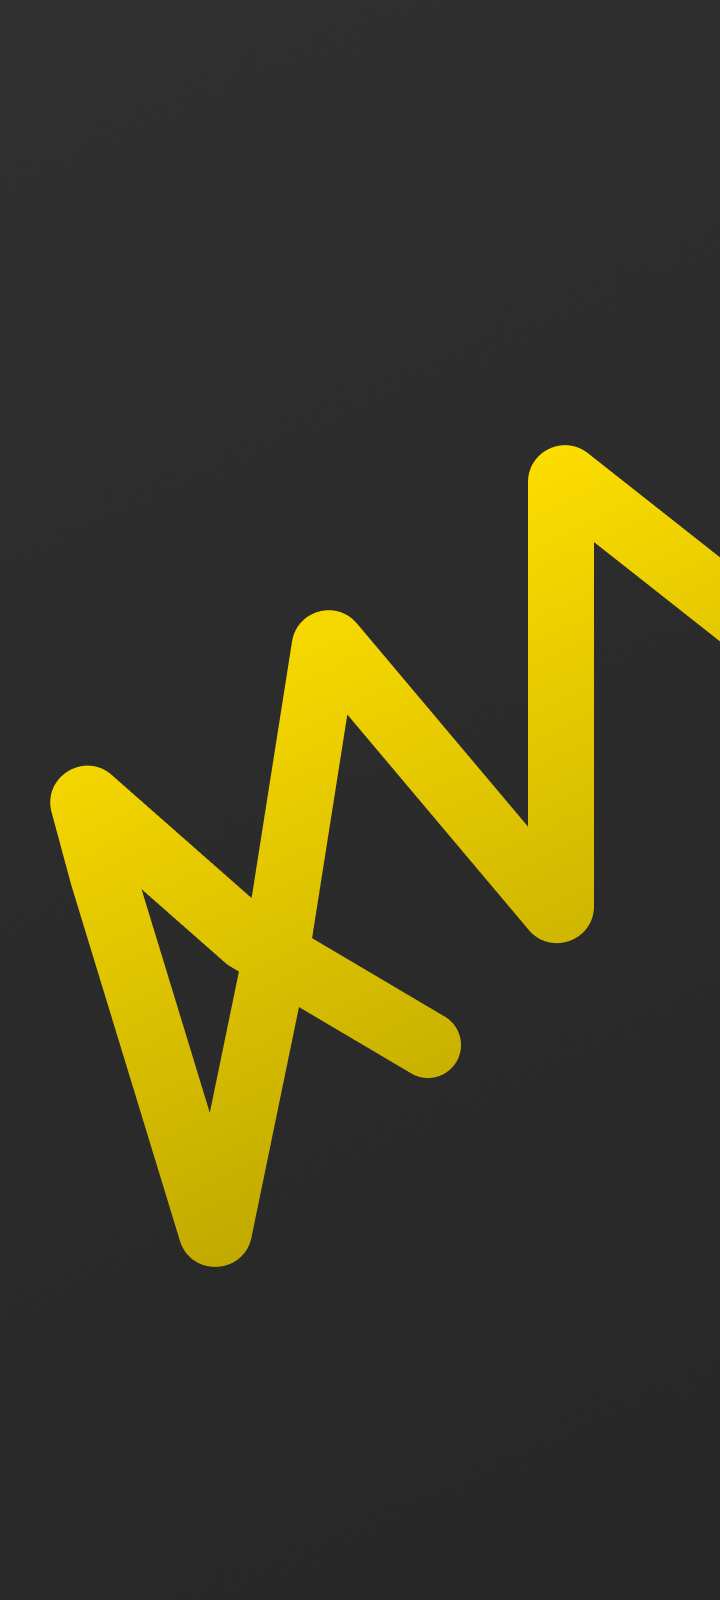
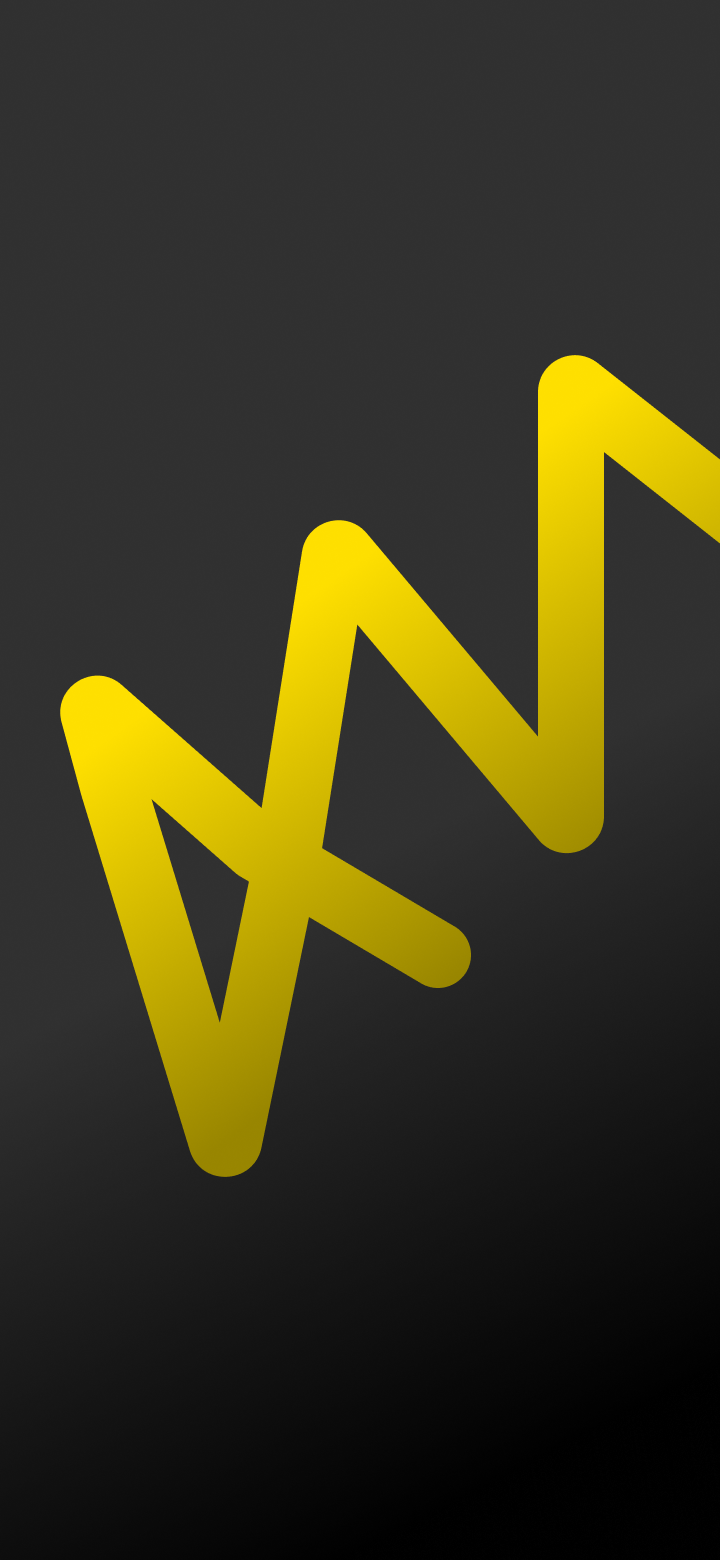
Adicionado imagebackground

diff --git a/src/app/index.tsx b/src/app/index.tsx
@@ -3,7 +3,7 @@ import { useAuthContext } from "../contexts/AuthContext";
 import { Button, Text, TextInput, View } from "react-native";
 
 export default function HomeScreen() {
-  const { signIn, signOut, isAuthenticated } = useAuthContext()
+  const { signIn } = useAuthContext()
   const [email, setEmail] = useState("");
   const [senha, setSenha] = useState("");
   const [erro, setErro] = useState("")
@@ -11,7 +11,7 @@ export default function HomeScreen() {
 
   async function login() {
     setIsLoading(true)
-    const response = await signIn(email, senha)
+    const response = await signIn(email.trim(), senha)
     setIsLoading(false)
     if (response?.status === 401) {
       setErro("Email ou senha inválidos")
@@ -27,12 +27,16 @@ export default function HomeScreen() {
         placeholder="Email"
         value={email}
         onChangeText={setEmail}
+        autoCapitalize="none"
+        textContentType="emailAddress"
       />
       <TextInput
         placeholder="Senha"
         value={senha}
-        secureTextEntry
         onChangeText={setSenha}
+        secureTextEntry
+        textContentType="password"
+        autoCapitalize="none"
       />
 
       {erro && <Text>{erro}</Text>}

diff --git a/src/app/_layout.tsx b/src/app/_layout.tsx
@@ -1,12 +1,17 @@
 import { Slot, Stack } from "expo-router";
 import { AuthProvider } from "../contexts/AuthContext";
 import { StatusBar } from "expo-status-bar";
+import { ImageBackground } from "react-native";
+import { IMAGE_PATHS } from "../constants/constants";
+import { globalStyles } from "@/styles/styles";
 
 export default function RootLayout() {
   return (
     <AuthProvider>
-      <StatusBar style="dark"/>
-      <Slot/>
+      <ImageBackground source={IMAGE_PATHS.backgroundImage} style={globalStyles.backgroundImage}>
+        <StatusBar style="dark" />
+        <Slot />
+      </ImageBackground>
     </AuthProvider>
   );
 }

diff --git a/src/app/(tabs)/produtos.tsx b/src/app/(tabs)/produtos.tsx
@@ -7,7 +7,7 @@ export default function ProdutosScreen() {
   return (
     <View style={{ flex: 1, justifyContent: 'center', alignItems: 'center' }}>
       <Text>Vc esta esta logado</Text>
-      <Button onPress={isAuthenticated ? signOut : signIn} title={isAuthenticated ? "Sign Out" : "Sign in"}></Button>
+      <Button onPress={signOut} title={"Sign Out"}></Button>
     </View>
   );
 }

diff --git a/src/app/(tabs)/_layout.tsx b/src/app/(tabs)/_layout.tsx
@@ -18,13 +18,6 @@ export default function AppLayout() {
             href: "./produtos"
           }}
         />
-        <Tabs.Screen
-          name="teste"
-          options={{
-            title: "Teste",
-            href: "./teste"
-          }}
-        />
       </Tabs>
   );
 }

diff --git a/src/constants/constants.ts b/src/constants/constants.ts
@@ -1,0 +1,3 @@
+export const IMAGE_PATHS = {
+    backgroundImage: require('../../assets/images/background.png')
+};
